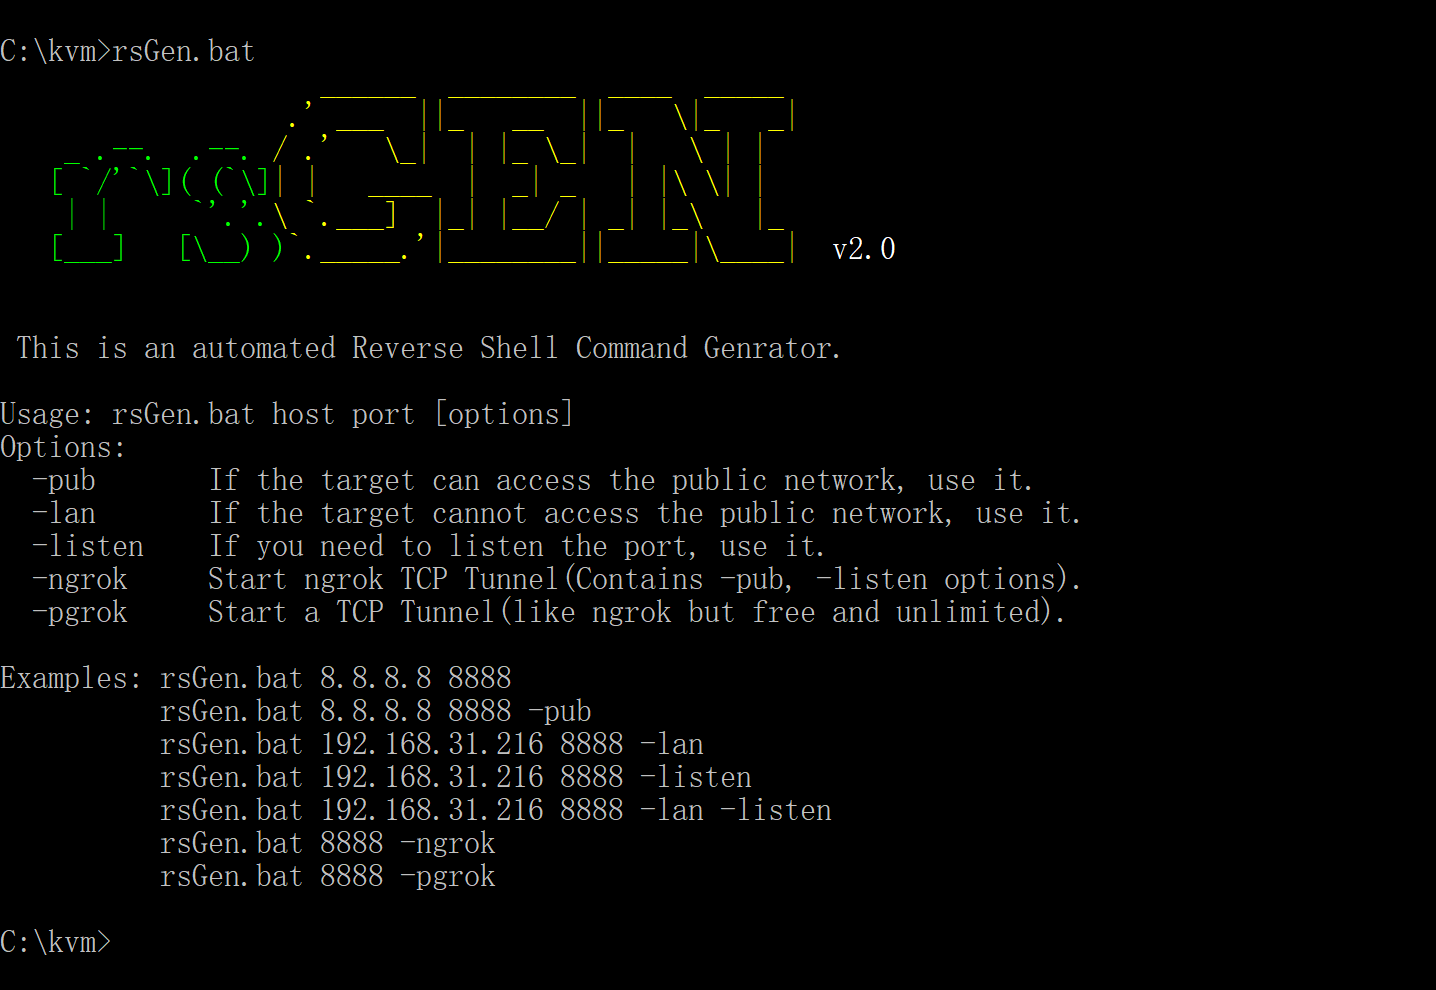
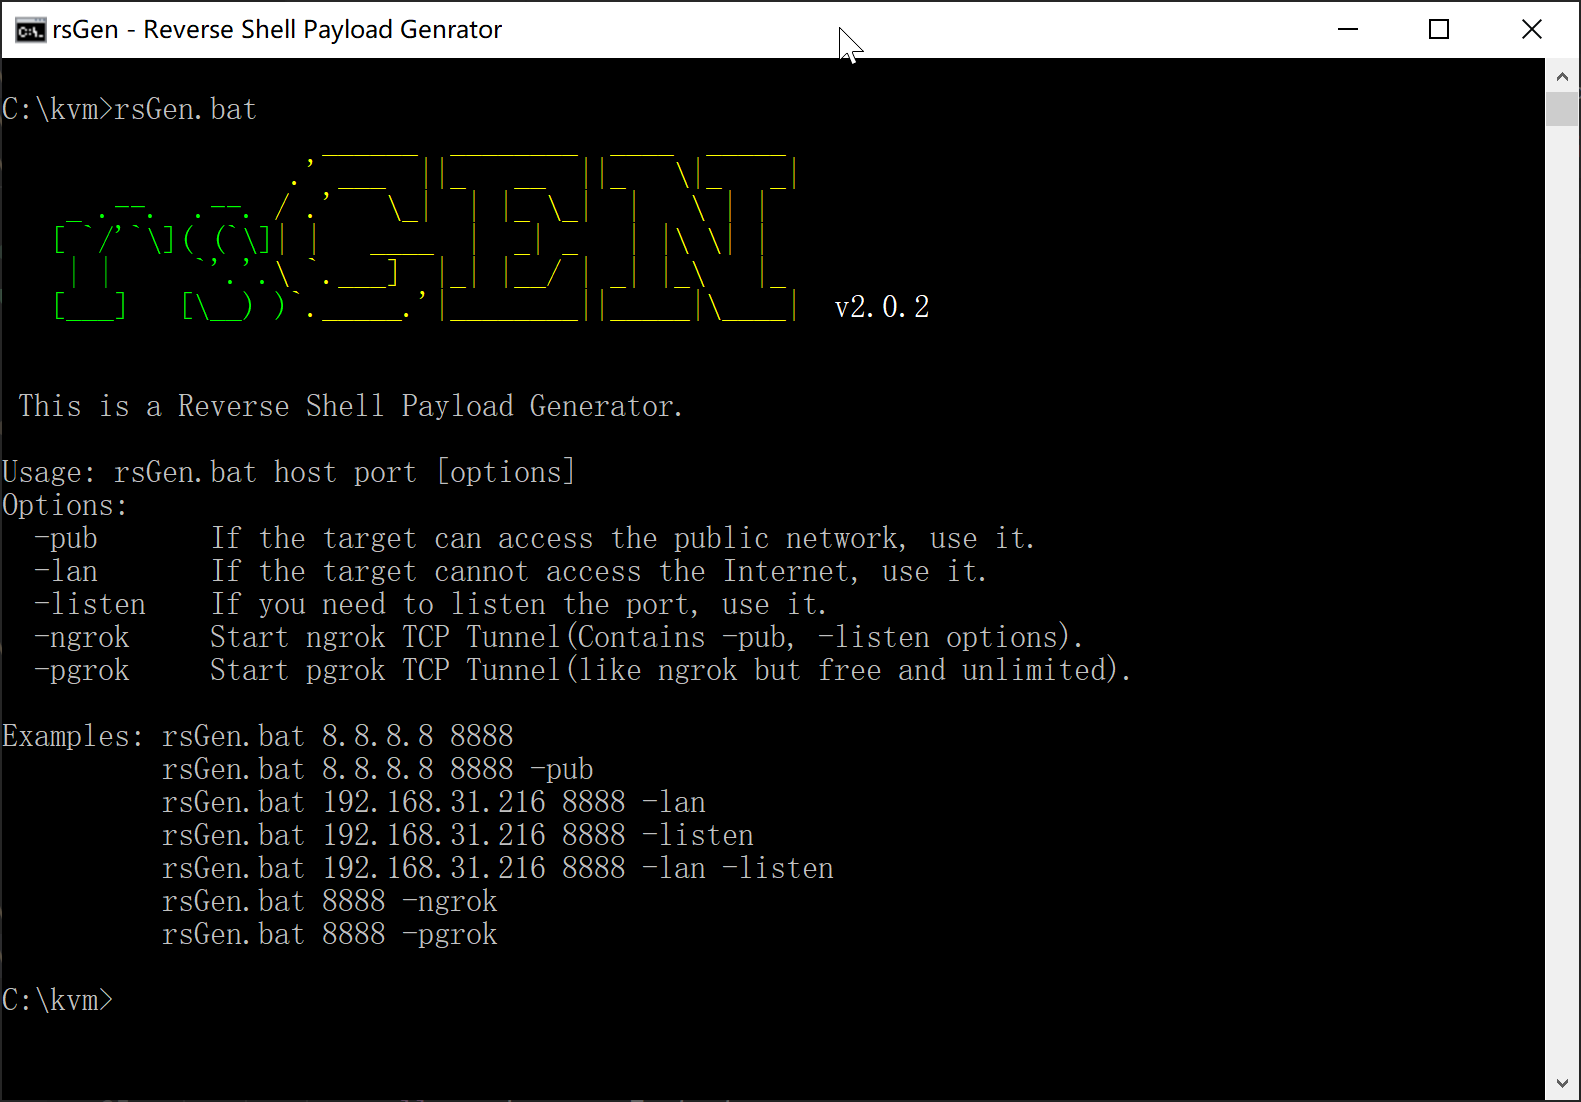
.

diff --git a/README.md b/README.md
@@ -1,8 +1,8 @@
 
- rsGen - Reverse Shell Command Genrator.
+ rsGen - Reverse Shell Payload Genrator.
  =
 
-  rsGen is an automated reverse shell command genrator, built by Windows Batch and Jscript. The main functions include native command generation and variant command generation. In version 2.0, I added an anonymous reverse shell receiving function "-ngrok" and "-pgrok".
+  rsGen is a Reverse Shell Payload Generator for hacking. built by Windows Batch and Jscript. The main functions include native command generation and variant command generation. In version 2.0, I added an anonymous reverse shell receiving function "-ngrok" and "-pgrok".
   
 ![rsGen](https://raw.githubusercontent.com/FlyfishSec/rsGen/master/doc/rsgen.png "rsGen")
 
@@ -27,7 +27,7 @@
 -pgrok  Start pgrok TCP Tunnel(Contains -pub, -listen options).like ngrok but free and unlimited.
 
 ```
-![rsGen](https://raw.githubusercontent.com/FlyfishSec/rsGen/master/doc/rsgen-pgrok.png "rsGen-pgrok")
+![rsGen](https://raw.githubusercontent.com/FlyfishSec/rsGen/master/doc/rsgen-ngrok.png "rsGen-ngrok")
 
 
 ## Operating system
